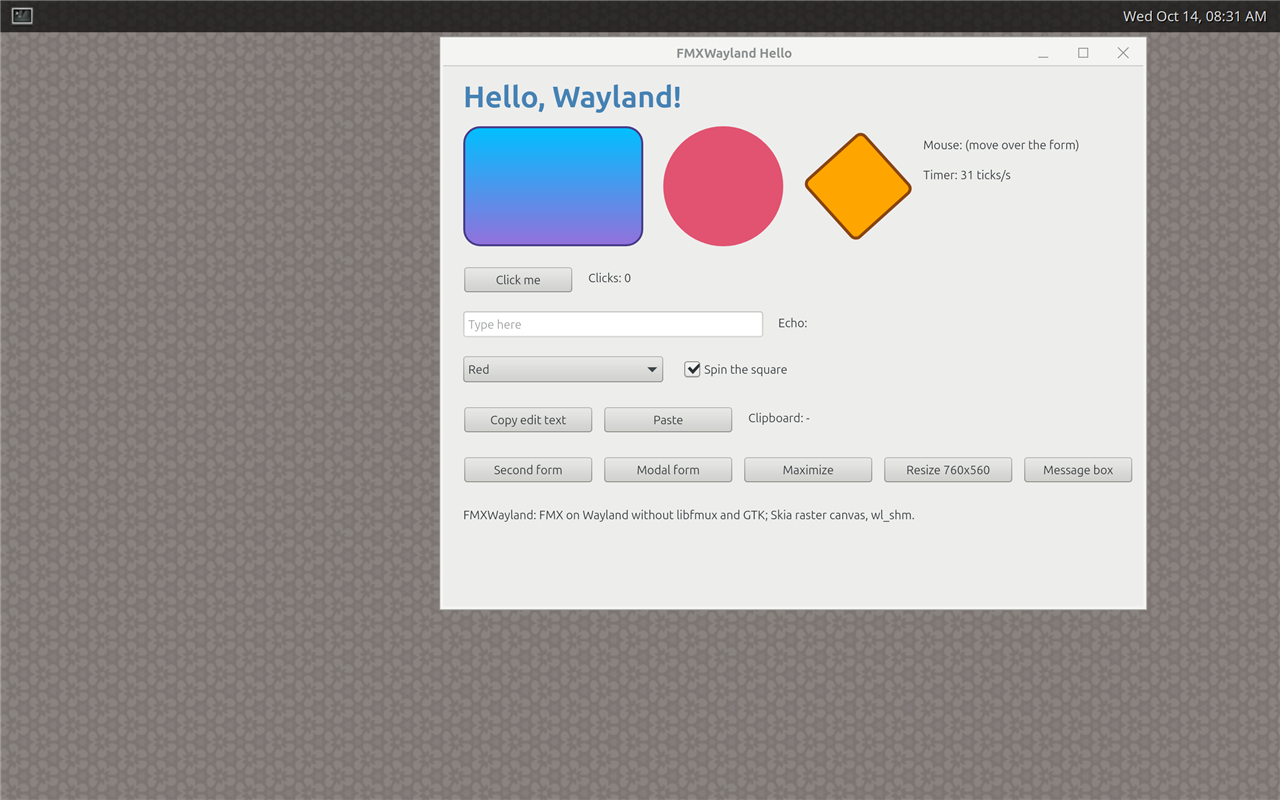
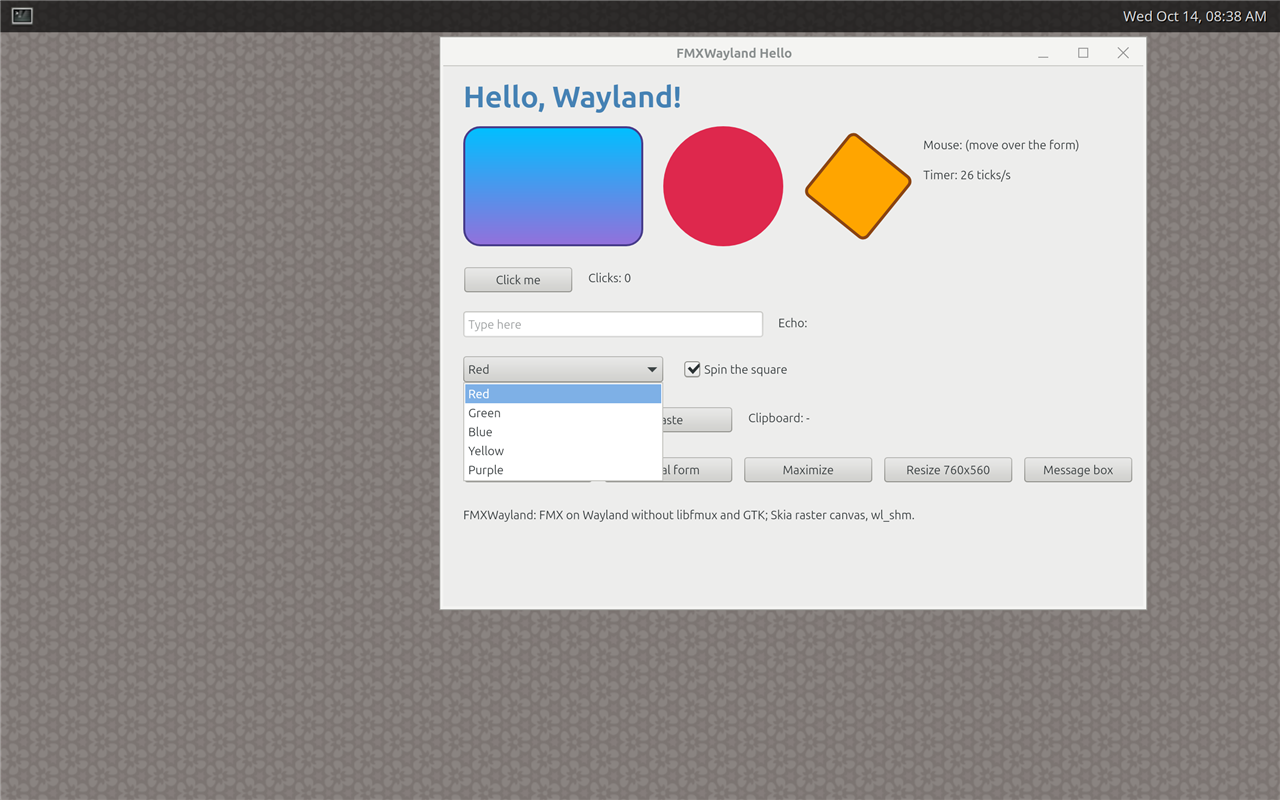
Self-test mode of the sample (--selftest: threads, clipboard, popup, second form, maximize, modal loop) checked on headless Weston at scale 1 and 2; process-local clipboard when the compositor has no seat

diff --git a/README.md b/README.md
@@ -135,7 +135,7 @@ Evidence of the last runs: all checks of both passed (WSLg on Windows 11 with Ub
 |---|---|
 | ![combo box popup](docs/screenshots/hello-combo-popup.png) | ![message box](docs/screenshots/hello-message-dialog.png) ![modal form](docs/screenshots/hello-modal.png) |
 
-Headless Weston, output scale 2 (crisp 2x rendering, client-side decorations at scale 2):
+Headless Weston, output scale 2 (2x rendering, client-side decorations, the combo box drop-down as an xdg_popup):
 
 ![Weston at scale 2](docs/screenshots/weston-headless-scale2.png)
 
